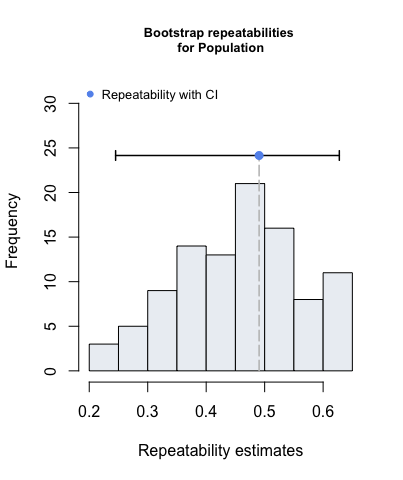
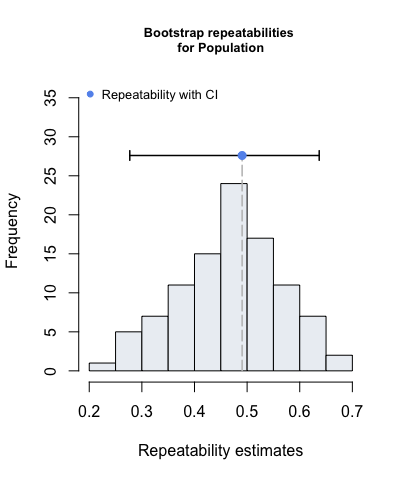
readme finetuning

diff --git a/README.md b/README.md
@@ -49,6 +49,9 @@ browseVignettes("rptR")
 
 ### Example
 
+Calculating the repeatability of beetle body length (`BodyL`) for both
+`Container` and `Population` while adjusting for `Treatment` and `Sex`:
+
 ``` r
 library(rptR)
 data(BeetlesBody)
@@ -57,6 +60,8 @@ rpts <- rpt(BodyL ~ Treatment + Sex + (1 | Container) + (1 | Population),
             grname = c("Container", "Population"), data = BeetlesBody, 
             datatype = "Gaussian", nboot = 100, npermut = 100)
 ```
+
+An extended summry of the results can be viewed with `summary()`.
 
 ``` r
 summary(rpts)
@@ -72,12 +77,12 @@ summary(rpts)
 #> 
 #> Repeatability estimation overview: 
 #>       R     SE   2.5%  97.5% P_permut  LRT_P
-#>  0.0834 0.0246 0.0523  0.141     0.01      0
+#>  0.0834 0.0227 0.0473   0.13     0.01      0
 #> 
 #> Bootstrapping and Permutation test: 
-#>             N    Mean   Median   2.5%  97.5%
-#> boot      100 0.08815 8.62e-02 0.0523  0.141
-#> permut    100 0.00383 2.11e-10 0.0000  0.021
+#>             N    Mean Median   2.5%  97.5%
+#> boot      100 0.08891 0.0883 0.0473 0.1297
+#> permut    100 0.00521 0.0011 0.0000 0.0242
 #> 
 #> Likelihood ratio test: 
 #> logLik full model = -1528.553
@@ -91,12 +96,12 @@ summary(rpts)
 #> 
 #> Repeatability estimation overview: 
 #>       R     SE   2.5%  97.5% P_permut  LRT_P
-#>   0.491  0.104  0.245  0.628     0.04      0
+#>   0.491 0.0956  0.277  0.637     0.01      0
 #> 
 #> Bootstrapping and Permutation test: 
 #>             N   Mean Median   2.5%  97.5%
-#> boot      100  0.454  0.481  0.245  0.628
-#> permut    100  0.457  0.457  0.419  0.492
+#> boot      100  0.465  0.471  0.277  0.637
+#> permut    100  0.456  0.456  0.422  0.487
 #> 
 #> Likelihood ratio test: 
 #> logLik full model = -1528.553
@@ -107,6 +112,10 @@ summary(rpts)
 ```
 
 #### Plotting
+
+`rptR` estimates uncertainties around repeatability estimates with
+parametric bootstrapping. The distribution of bootstrap estimates can
+easily be plotted.
 
 ``` r
 plot(rpts, grname="Container", type="boot", cex.main=0.8, col = "#ECEFF4")
